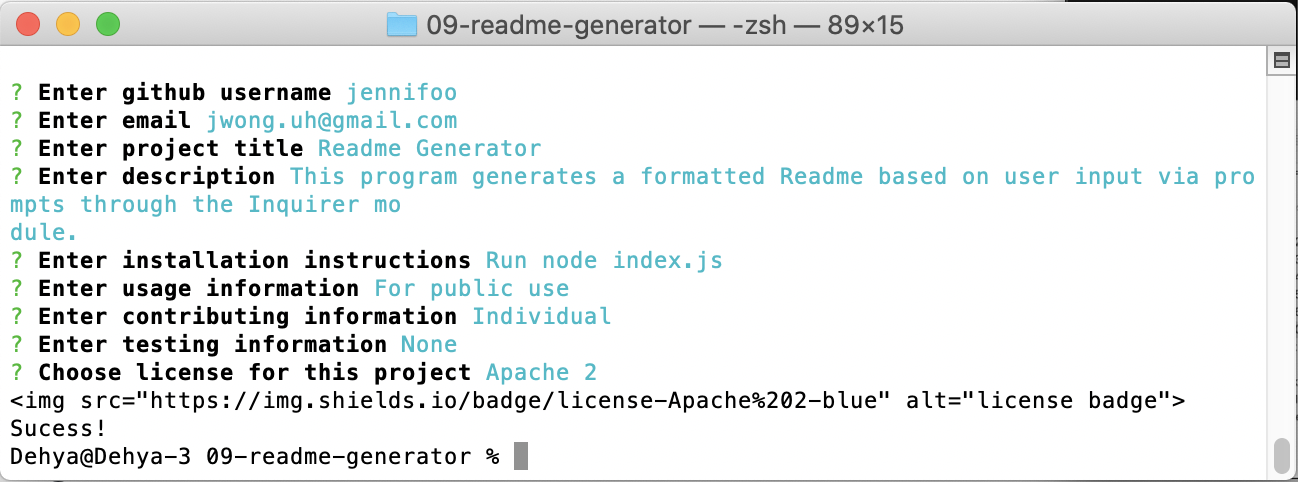
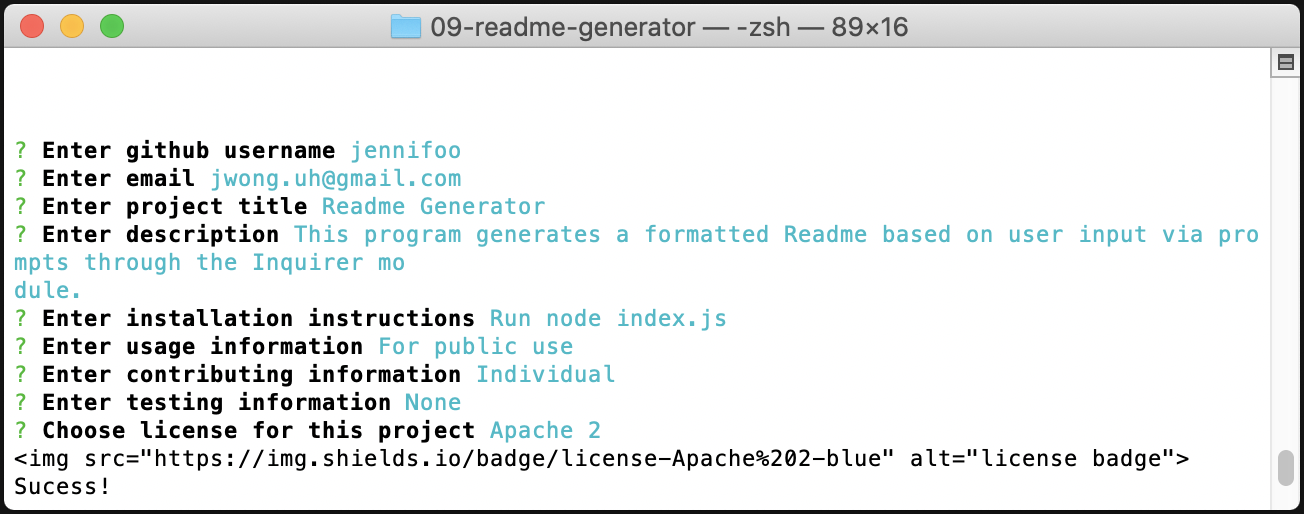
update screenshot of readme and formatting for links, include link to see readme prototype

Changed region(s): [[0.0, 0.0, 1.0, 1.0]]

diff --git a/README.md b/README.md
@@ -11,12 +11,15 @@ This project consists of creating a command-line application that dynamically ge
 node index.js
 ```
 
+### Screenshot of the Readme Generator on Node:
+
 <img src="./images/readme-program.png" alt="Readme Generator in action with node">
 
-### See a demo of my Readme Generator at any of the video links:
+### See a demo of my Readme Generator at any of the 2 video links:
 
-* Video link (Vimeo): https://vimeo.com/452335805 (choose highest quality setting)
-* Link to Video on Github: https://github.com/jennifoo/09-readme-generator/blob/master/8-26-2020_Readme_Generator_sm.mov
+* [Vimeo Link:](https://vimeo.com/452335805) – choose highest quality setting
+* [Link to Video on Github:](https://github.com/jennifoo/09-readme-generator/blob/master/8-26-2020_Readme_Generator_sm.mov)
+* You may also view a prototype of the generated Readme [here:](https://github.com/jennifoo/09-readme-generator/tree/master/Readme%20Prototype)
 
 ## User Story
 
